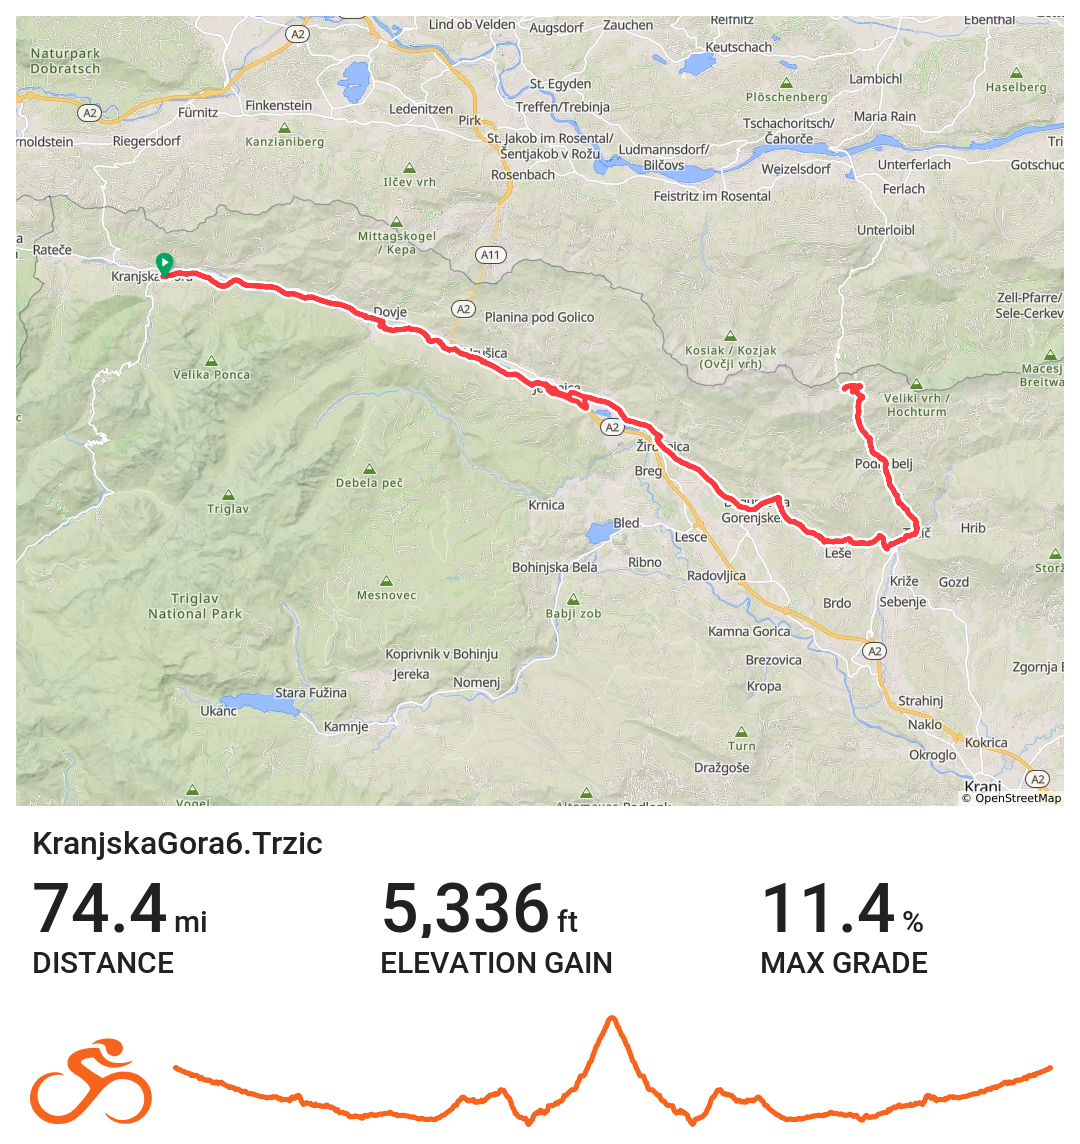
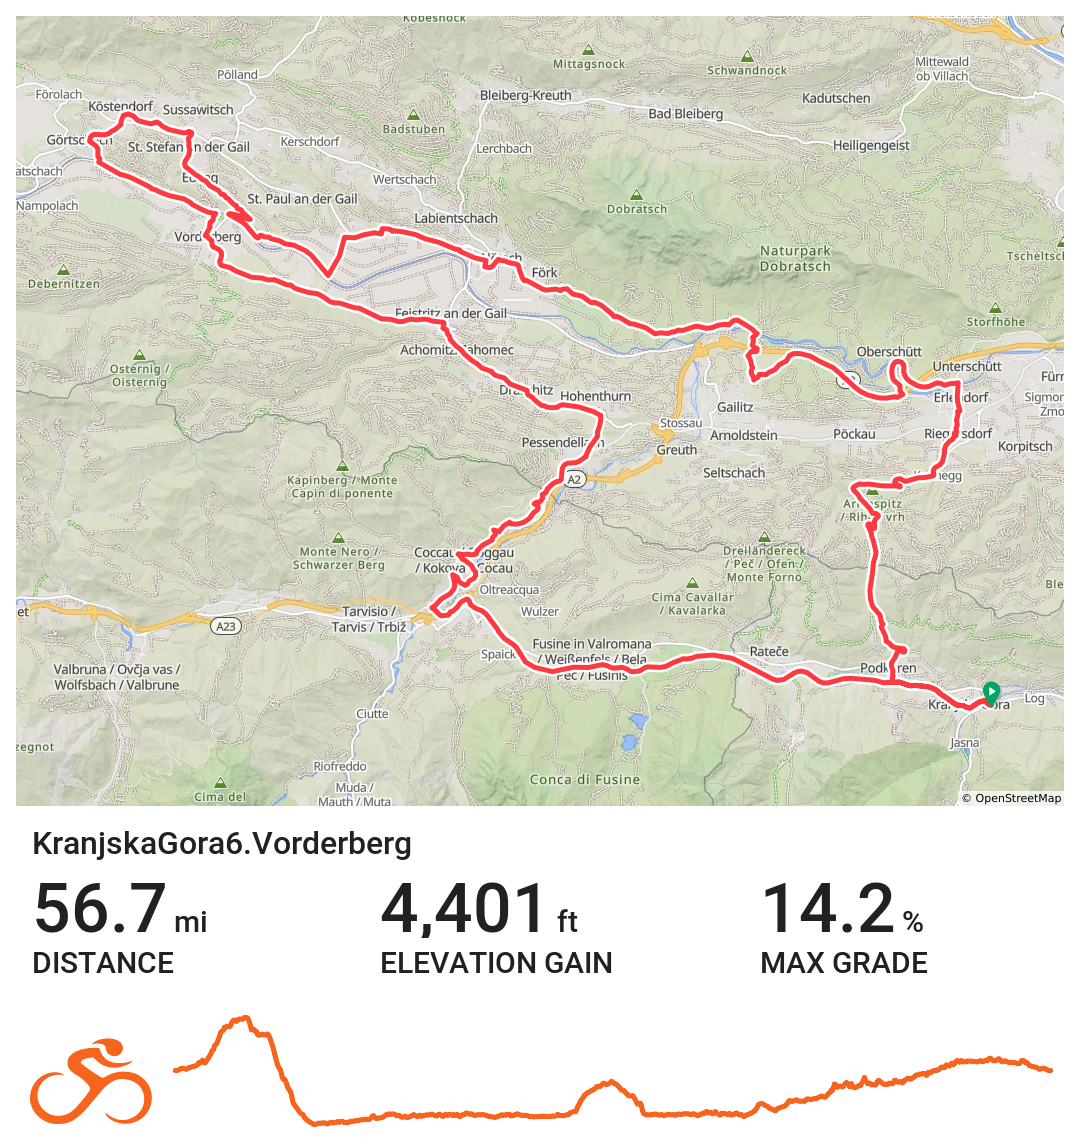
yjyjy

diff --git a/2027_Slovenia_Alps.html b/2027_Slovenia_Alps.html
@@ -325,24 +325,27 @@
               Routes may include options to switch to a shorter alternative with less elevation, or extensions if more
               miles are desired.
               <br /><br />
-              Extra routes may be published here nearer the time.
-              <br /><br />
               Each day, specific routes will be proposed, but may change to take account of weather conditions.
+              <br /><br />
+
+              <a href="https://ridewithgps.com/collections/9471364" target="_blank" class="route-card-btn">
+                View All Routes
+              </a>
             </div>
 
             <div class="route1-container">
               <div class="route1-card">
-                <h4>Route 1: Bohinj - Bled</h4>
+                <h4>Route 1: Bohinj-Bled</h4>
 
-                <img src="/Pictures/Slovenia/KranjskaGora1_Route_Map.png" alt="Day 1 Route Map" />
+                <img src="/Pictures/Slovenia/KranjskaGora1_Route_Map.png" alt="Route 1 Map" />
 
                 <p>
                   The route heads east on cycle paths towards Mojstrana before climbing to the Pokljuka plateau, a vast
                   area filled with a dense spruce forest. After crossing this popular road cycling area, we’ll descend
-                  towards the beautiful Lake Bohinj before heading to Bled looping the shoreline of it's famous lake.
-                  Afterwards, the idyllic Radovna Valley awaits, which leads back to Mojstrana, a village at the gates
-                  of the Triglav valleys. From there, we’ll retrace our route and cycle through the scenic Upper Sava
-                  Valley back to Kranjska Gora.
+                  towards the beautiful Lake Bohinj for a first cafe stop before heading to Bled looping the shoreline
+                  of it's famous lake. Afterwards, the idyllic Radovna Valley awaits, which leads back to Mojstrana, a
+                  village at the gates of the Triglav valleys. From there, we’ll retrace our route and cycle through the
+                  scenic Upper Sava Valley back to Kranjska Gora.
                 </p>
 
                 <p>
@@ -353,17 +356,18 @@
               </div>
 
               <div class="route1-card">
-                <h4>Route 2: Vršič Pass - Previl - Tarvisio</h4>
+                <h4>Route 2: Vršič Pass-Previl-Tarvisio</h4>
 
-                <img src="/Pictures/Slovenia/KranjskaGora2_Route_Map.png" alt="Day 2 Route Map" />
+                <img src="/Pictures/Slovenia/KranjskaGora2_Route_Map.png" alt="Route 2 Map" />
 
                 <p>
                   We start the day with a ride over Slovenia’s highest paved mountain pass, the legendary Vršič. This
                   climb winds through a series of tight, cobbled hairpins with each turn opening up wider Alpine views.
-                  Once you crest the top, a sweeping descent carries you into the spellbinding Soča Valley. From here,
-                  the road follows the river’s turquoise flow, easing into a gentle downhill that feels fast, fluid, and
-                  endlessly scenic towards the small town of Bovec. The route then heads north passing Lake Predil
-                  looping back to Kransjska Gora.
+                  Once you crest the top, a sweeping descent round multiple hairpins carries you into the spellbinding
+                  Soča Valley. From here, the road follows the river’s turquoise flow, easing into a gentle downhill
+                  that feels fast, fluid, and endlessly scenic crossing the Italian border towards the small town of
+                  Bovec for our first cafe stop. The route then heads north passing Lake Predil crossing back inrto
+                  Slovenia and looping back to Kransjska Gora.
                 </p>
 
                 <p>
@@ -374,17 +378,18 @@
               </div>
 
               <div class="route1-card">
-                <h4>Route 3: Tarvisio - Dogna - Predil</h4>
+                <h4>Route 3: Tarvisio-Dogna-Predil</h4>
 
-                <img src="/Pictures/Slovenia/KranjskaGora3_Route_Map.png" alt="Day 3 Route Map" />
+                <img src="/Pictures/Slovenia/KranjskaGora3_Route_Map.png" alt="Route 3 Map" />
 
                 <p>
                   Alpe Adria is one of Europe’s most spectacular long‑distance cycling routes, and on this route you’ll
                   experience one of its standout Alpine stages. Starting in Kranjska Gora, the ride carries you across
                   the border into Italy, where the old railway line through the Kanal Valley offers a beautifully smooth
                   and scenic stretch. You’ll roll past the quiet village of Dogna before climbing steadily toward the
-                  Sella Nevea pass and descending to the emerald waters of Lake Predil. From here, the route loops back
-                  toward Kranjska Gora, completing a long but surprisingly manageable day in the saddle.
+                  Sella Nevea pass and descending to the emerald waters of Lake Predil. From here, the route crosses
+                  back into Slovenia and loops back toward Kranjska Gora, completing a long but surprisingly manageable
+                  day in the saddle.
                 </p>
 
                 <p>
@@ -396,12 +401,13 @@
               <div class="route1-card">
                 <h4>Route 4: Arnoldstein</h4>
 
-                <img src="/Pictures/Slovenia/KranjskaGora4_Route_Map.png" alt="Day 4 Route Map" />
+                <img src="/Pictures/Slovenia/KranjskaGora4_Route_Map.png" alt="Route 4 Map" />
 
                 <p>
-                  This is the easiest route of the tour and passes through 3 countries. The route crosses the
-                  Slovenian/Austrian border and takes you through the scenic Arnoldstein valley. It meets up with Alpe
-                  Adria cycle path and crosses the Austrian/Italian border before continuing back to Kranjska Gora.
+                  This is one of the less demanding routes of the tour and passes through 3 countries. The largest climb
+                  is early on in the route - the Wurzenpass - crossing into Austria taking you through the scenic
+                  Arnoldstein valley. It meets up with the Alpe Adria cycle path and crosses the Italian border into
+                  Tarvisio before crossing the Slovenian border and continuing back to Kranjska Gora.
                 </p>
 
                 <p>
@@ -413,15 +419,16 @@
               <div class="route1-card">
                 <h4>Route 5: Mangart Saddle Climb</h4>
 
-                <img src="/Pictures/Slovenia/KranjskaGora5_Route_Map.png" alt="Day 5 Route Map" />
+                <img src="/Pictures/Slovenia/KranjskaGora5_Route_Map.png" alt="Route 5 Map" />
 
                 <p>
-                  This is an out and back route. The Mangart Saddle climb is a 7-10 mile ascent, typically averaging
-                  8–10%, with long stretches above 12–15%, carved tunnels, exposed mountain roads, and a summit around
-                  6700 ft offering panoramic views across Slovenia and Italy. It’s demanding, unforgettable, and
-                  absolutely worth the effort. Cyclists who don't want to do this difficult climb can opt to stay at the
-                  bottom. Even in May, the conditions can be wintery with the road closed in places. Remember to pack
-                  appropriate gear for the weather and bike lights for the tunnel sections.
+                  This is an out and back route climbing one of Slovenias famous ascents. The Mangart Saddle climb is a
+                  7-10 mile ascent, typically averaging 8–10%, with long stretches above 12–15%, carved tunnels, exposed
+                  mountain roads, and a summit around 6700 ft offering panoramic views across Slovenia and Italy. It’s
+                  demanding, unforgettable, and absolutely worth the effort. Cyclists who don't want to do this
+                  difficult climb can opt to stay at the bottom. Even in May, the conditions can be wintery with the
+                  road closed in places. Remember to pack appropriate gear for the weather and bike lights for the
+                  tunnel sections.
                 </p>
 
                 <p>
@@ -431,20 +438,72 @@
                 </p>
               </div>
               <div class="route1-card">
-                <h4>Route 6: Trzic</h4>
+                <h4>Route 6: Vorderberg</h4>
 
-                <img src="/Pictures/Slovenia/KranjskaGora6_Route_Map.png" alt="Day 6 Route Map" />
+                <img src="/Pictures/Slovenia/KranjskaGora6_Route_Map.png" alt="Route 6 Map" />
 
                 <p>
-                  This out and back route is mostly on quiet roads and cycleways, with gentle to moderate climbing,
-                  passing through forests, meadows, and small villages. It’s a beautiful, low‑traffic route ideal for a
-                  steady endurance ride rather than a summit challenge. After Trzic there is the option to continue up
-                  the pass, offering a more challenging ascent, but you have to turn around at the Austrian border as
-                  cycles are not allowed in the tunnel at the pass summit.
+                  This route is similar to the Arnoldstein route and passes through 3 countries. The largest climb is
+                  early on in the route - the Wurzenpass - crossing into Austria taking you through the scenic
+                  Arnoldstein valley. It extends down the valley towards the village of Vorderberg before looping back
+                  and joining the Alpe Adria cycle path crossing the Italian border into Tarvisio before crossing the
+                  Slovenian border and continuing back to Kranjska Gora.
                 </p>
 
                 <p>
-                  <a href="https://ridewithgps.com/routes/54939481" target="_blank" class="route-card-btn">
+                  <a href="https://ridewithgps.com/routes/56606931" target="_blank" class="route-card-btn">
+                    View Route
+                  </a>
+                </p>
+              </div>
+              <div class="route1-card">
+                <h4>Route 7: Bled</h4>
+
+                <img src="/Pictures/Slovenia/KranjskaGora7_Route_Map.png" alt="Route 7 Map" />
+
+                <p>
+                  This route is also one of the less demanding routes of the tour as it makes its way down the Krma
+                  Valley before heading towards the picturesque town of Bled for our first cafe stop. A loop arond the
+                  lake provides stunning views and a chance to rest and recharge before looping back to Kranjska Gora.
+                </p>
+
+                <p>
+                  <a href="https://ridewithgps.com/routes/56455201" target="_blank" class="route-card-btn">
+                    View Route
+                  </a>
+                </p>
+              </div>
+              <div class="route1-card">
+                <h4>Route 8: Trzic1</h4>
+
+                <img src="/Pictures/Slovenia/KranjskaGora8_Route_Map.png" alt="Route 8 Map" />
+
+                <p>
+                  This out and back route down the Krma Valley is mostly on quiet roads and cycleways, with gentle to
+                  moderate climbing, passing through forests, meadows, and small villages. It’s a beautiful, low‑traffic
+                  route ideal for a steady endurance ride rather than a summit challenge. After our first cafe stop in
+                  Trzic we retrace our steps back to Kranjska Gora.
+                </p>
+
+                <p>
+                  <a href="https://ridewithgps.com/routes/56611183" target="_blank" class="route-card-btn">
+                    View Route
+                  </a>
+                </p>
+              </div>
+              <div class="route1-card">
+                <h4>Route 9: Trzic2</h4>
+
+                <img src="/Pictures/Slovenia/KranjskaGora9_Route_Map.png" alt="Route 9 Map" />
+
+                <p>
+                  This route to Trzic is identical to the Trzic1 route, but after our first cafe stop in Trzic we divert
+                  towards Bled and head back following the Radovna Valley towards Mojstrana and then back to Kranjska
+                  Gora. It gives riders an option to do a longer distance on the return journey.
+                </p>
+
+                <p>
+                  <a href="https://ridewithgps.com/routes/56613782" target="_blank" class="route-card-btn">
                     View Route
                   </a>
                 </p>
@@ -559,8 +618,8 @@
 
               <ul class="logistics-list">
                 <li class="flight">
-                  We fly from Manchester airport and will provide clear travel information so riders can coordinate
-                  their journeys and connect smoothly with the scheduled airport transfers.
+                  We fly from Manchester airport and provide clear travel information so riders can coordinate their
+                  journeys and connect smoothly with the scheduled airport transfers.
                 </li>
                 <li class="flight">
                   Riders will organise and pay for their own flight travel arrangements from and to UK airports. This
